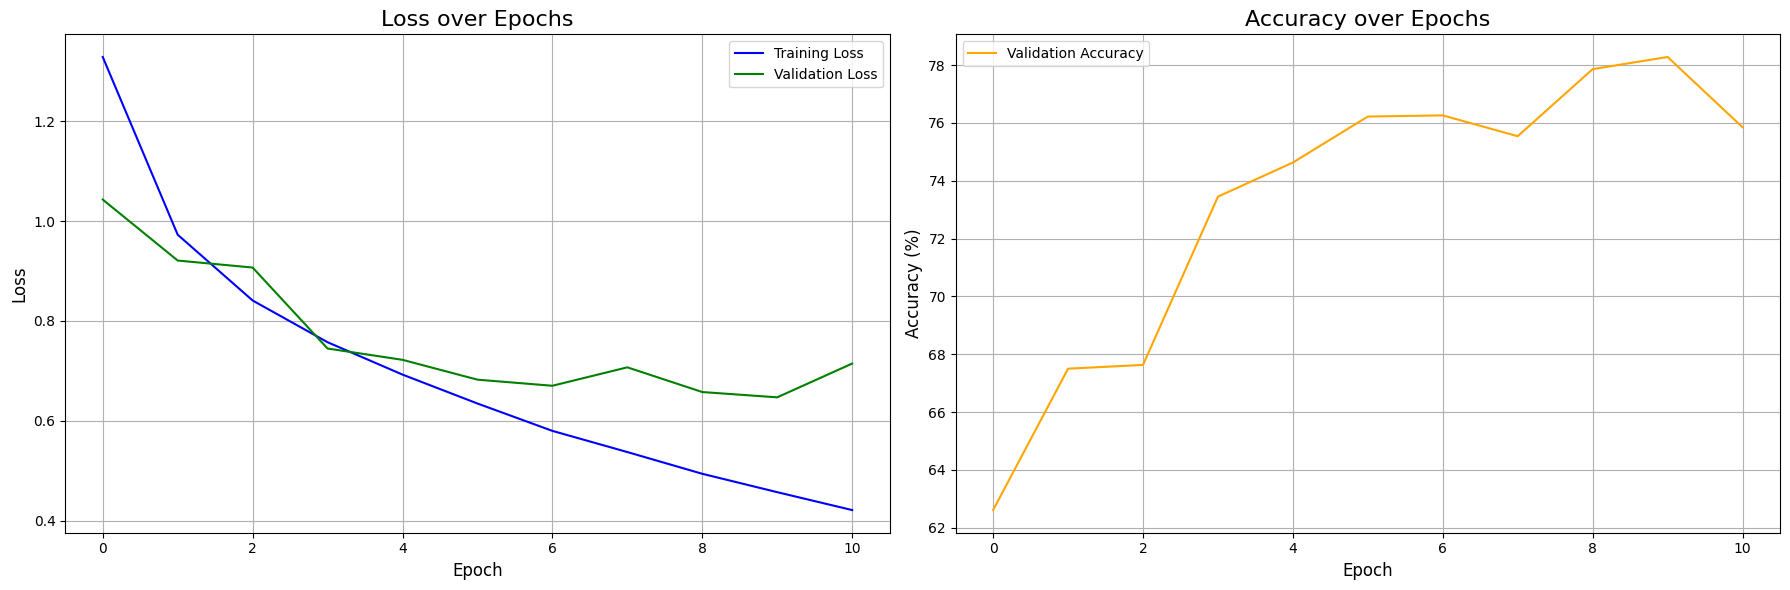
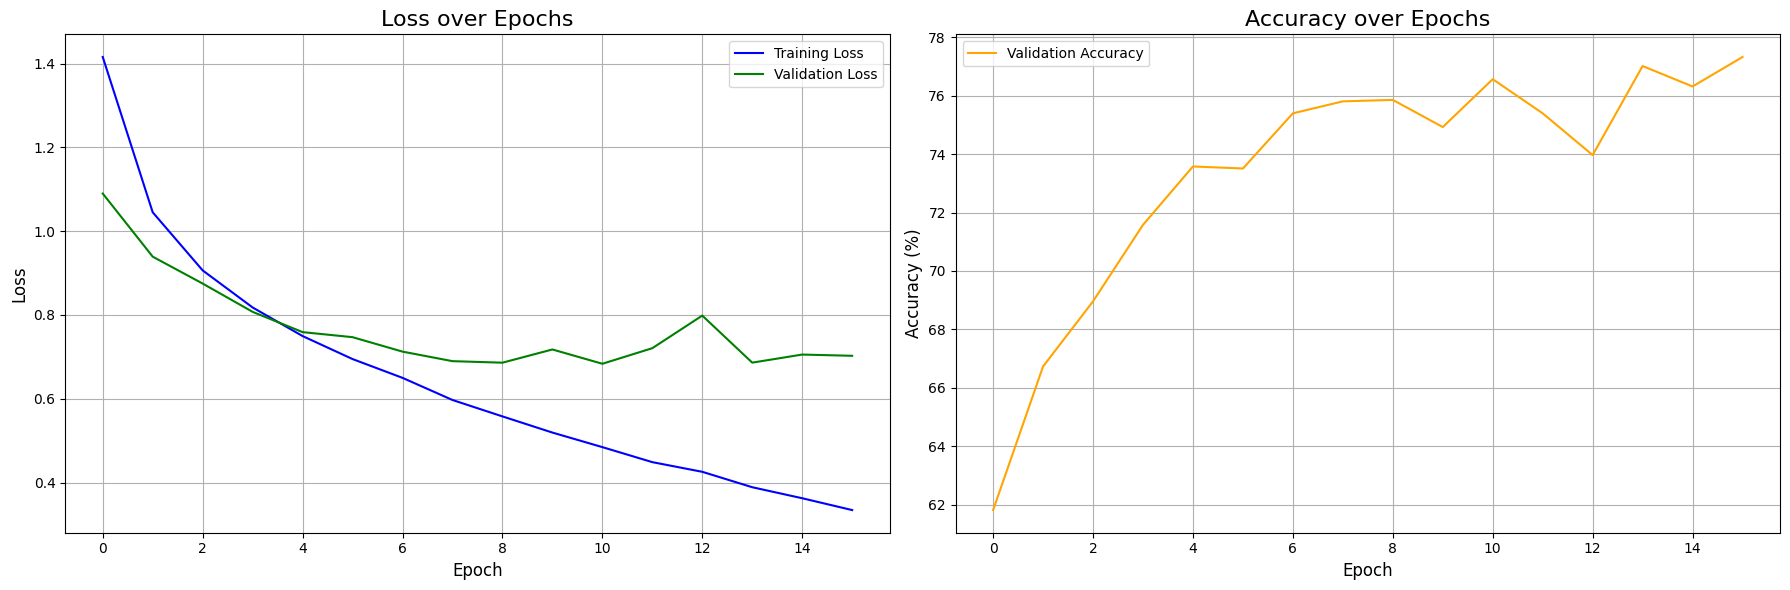
modify article

diff --git a/docs/Image-models-replication.md b/docs/Image-models-replication.md
@@ -10,7 +10,7 @@
 
 这个代码框架的大致介绍是：通过模型暴露的一个接口函数 `get_model_on_device()` 获取模型实例，然后使用 hyperopt 框架，在 CIFAR-10 数据集上分割 20% 数据用以对模型进行全局学习率和训练轮次的早停法调参；获取最优参数后，在全量数据上进行训练，最后收集训练信息得到结果和部分数据变化的可视化图像。
 
-由于每一次都要花大量时间寻找合适的学习率，笔者花了一天时间研究了一下 muP（[Paper link here](https://arxiv.org/abs/2203.03466)） 的原理以及怎样迁移学习率，结论：在已有数据上（MLP, CNN, ResNet-18）进行的实验和相关理论计算证明，模型架构（残差连接，BN等）会影响损失地形（[Paper link here](https://arxiv.org/pdf/1712.09913)），导致跨架构的学习率迁移失效。其实很明显，比如微调ResNet就比从零训练ResNet的best LR更低，因为预训练权重已经在一个 minima 附近了，损失地形比起随机点位更平坦。所以该花时间调参还得花时间调参。不过，可以考虑在小宽度模型上再 scale up，这样就符合 muP 的初心了。具体的实验过程，还请大家参阅后文。
+由于每一次都要花大量时间寻找合适的学习率，笔者花了一天时间研究了一下 muP（[Paper link here](https://arxiv.org/abs/2203.03466)） 的原理以及怎样迁移学习率，结论：在已有数据上（MLP, CNN, ResNet-18）进行的实验和相关理论计算证明，模型架构（残差连接，BN等）会影响损失地形（[Paper link here](https://arxiv.org/pdf/1712.09913)），导致跨架构的学习率迁移失效。其实很明显，比如微调ResNet就比从零训练ResNet的best LR更低，因为预训练权重已经在一个最小值附近了，损失地形比起随机点位更平坦。所以该花时间调参还得花时间调参。不过，可以考虑在小宽度模型上再 scale up，这样就符合 muP 的初心了。具体的实验过程，还请大家参阅后文。
 
 下面是每一个 Cell 的代码：
 
@@ -510,11 +510,15 @@ graph LR
     style H stroke:#a6e3a1,stroke-width:3px
 ```
 
-这是一个三层的多层感知机，参数量 1.7M。这点参数量反映下来就是即使是 P100 这种老 GPU 都根本没使劲，倒是 CPU 一直在满负荷发力，搬运数据。
+MLP 是利用 $\reals^n\rightarrow\reals^m$ 的多重线性映射实现数据的降维，但是单纯的线性映射嵌套仍是 $\reals^{d_{in}}\rightarrow\reals^{d_{out}}$ 的线性映射，因此需要在层与层之间添加非线性的激活函数引入非线性。这样一个足够宽的两层全连接网络即可拟合任意函数。
 
-对于图像分类任务而言，MLP 的做法是将其一来就展平成一维向量来丢进矩阵里面跑。我第一次接触的时候就觉得这很没道理，图像本身就有两个维度，这种“平面化”的信息，感觉就被一个 `nn.Flatten` 给丢弃了。虽然说理论上经过足够数据训练之后，一个 fc layer 足够有能力提取两个维度上的相关性（万能拟合定理），但是网络要足够宽，数据要足够多，正则化要足够充分，而如果不引入更多先验知识来捕捉图像信息的特征，训练效率和参数效率都是极其低下的。
+在这个任务里面，我们使用一个三层的 MLP，并采用 ReLU 作为层间的激活函数，由于我们对 one-hot 向量进行分类，因此使用交叉熵损失，如果用 MSE 的话，求导之后会发现它是交叉熵的导数乘以权重，这就不适合梯度稳定更新。
 
-事实上结果也是这样，经过 13 个 Epoch 的训练之后，模型在 CIFAR-10 只上取得了 54.44% 的准确率。增大模型的宽度和深度理论上可以改善，但是效率太低了。
+输入上是将 3@32x32 的图像展平成 3072 维的向量。当然我觉得这很没道理，图像本身就有两个维度三个通道，这种“平面化”的信息，感觉就被一个 `nn.Flatten` 给丢弃了。虽然说理论上经过足够数据训练之后，一个 fc layer 足够有能力提取各个维度上的相关性（万能拟合定理），但是网络要足够宽，数据要足够多，正则化要足够充分，而如果不引入更多先验知识来捕捉图像信息的特征，训练效率和参数效率都是极其低下的。
+
+这是一个三层的多层感知机，参数量 1.7M。第一次训练下来发现这点参数量反映下来就是即使是 P100 这种老 GPU 都根本没使劲，倒是 CPU 一直在满负荷发力，搬运数据。后来意识到，dataloader 里面可以写上 `num_workers=6` 以及 `pin_memory=True` 来提升访存效率，并且把 batch_size 调大（反正就 2 M不到的模型爆不了显存），训练效率高了很多啊。
+
+经过 13 个 Epoch 的训练之后，模型在 CIFAR-10 只上取得了 54.44% 的准确率。增大模型的宽度和深度理论上可以改善，但是效率太低了。因此需要发掘图像信息的特性，在模型结构上面引入更多先验信息，寻找能够更高效提取信息的架构。
 
 ## 卷积神经网络
 
@@ -607,8 +611,8 @@ def get_model_on_device():
 ==================================================
 
 [Hyper parameters]
-  - Best LR: 0.000565
-  - Best epochs: 11 epochs
+  - Best LR: 0.000199
+  - Best epochs: 16 epochs
   - Batch size: 128
 
 [Model structure]
@@ -639,12 +643,12 @@ CNN(
   - Total params: 1,147,914
 
 [Training infomation]
-  - Training duration on full training set: 2m 33s
+  - Training duration on full training set: 4m 7s
   - Training device: cuda on Kaggle's free P100, Thank you Google!
 
 [Benchmarks on test set]
-  - Test loss: 0.7148
-  - Test accuracy: 75.85%
+  - Test loss: 0.7026
+  - Test accuracy: 77.33%
 
 ==================================================
 ```
@@ -733,24 +737,55 @@ graph LR
     style S stroke:#a6e3a1,stroke-width:3px
 ```
 
-CNN 通过先验引入稀疏连接（也就是 `conv2d` ）不仅可以实现对更大规模网络的稀疏近似，满足图像的平移不变性，还具有很好的可解释性（卷积核对应一个小面积的感受野，解决之前提到 MLP 的展平操作的问题，并且不同的卷积核提取不同的特征）。因此相当适合图像处理。当然最后还是得依靠一个 MLP 作为分类头，不过这里的展平操作就合理多了，因为经过多次 `conv2d` 之后，模型提取到的都是空间上弱相关的深层次（抽象）特征了。下面来聊聊训练上的参数迁移问题。
+`conv2d` 就是卷积操作，本质上是从输入张量 `(batch_size, in_channel, H, W)` 到输出张量 `(batch_size, out_channel, H, W)` 的一个利用四维张量 `(in_channel, out_channel, H', W')` 的卷积核进行的卷积操作，具体是对于单张图像的各个通道进行填充后，将自定义的 `in_channel@H'xW'` 的矩阵在其上一一对应进行滑动覆盖，并对覆盖到的区域进行逐元素求积并求和，得到了单个新矩阵，如此共选取 `out_channel` 次自定义矩阵，就得到了输出张量 `(batch_size, out_channel, H, W)` 这是任意一本深度学习教材都会讲解的内容。
 
-这里我控制了 CNN 的参数量基本上和 MLP 在一个数量级（1M），并且 CNN 的参数量还略少一点。之前提到尝试过使用 muP 迁移学习率，但是 MLP 的 fan_in 是 512 （隐藏层输入维度）而 CNN 的 fan_in 是最大通道数 128。关于这一点，有下面的说明：
+CNN 通过先验引入稀疏连接（也就是 `conv2d` ）不仅可以实现对更大规模网络的稀疏近似，满足图像的平移不变性，还具有很好的可解释性（卷积核对应一个小面积的感受野，解决之前提到 MLP 的展平操作的问题，并且不同的卷积核提取不同的特征）。因此相当适合图像处理。当然最后还是得依靠一个 MLP 作为分类头，不过这里的展平操作就合理多了，因为经过多次 `conv2d` 之后，模型提取到的都是空间上弱相关的深层次（抽象）特征了。在这些特征之间进行组合就非常合理且直观了。
 
-1. 为什么不是真正隐藏层的输入维度 2048？因为考虑对 CNN 做宽度上的 scale up 时，是考虑增加的通道数。实质上，`conv2d` 是对全连接的稀疏化改造，从提取更多特征的角度考虑，MLP 只需要简单增加 fan_out，但是 CNN 不能靠增加 kernel_size 或者其他，只能靠增加通道数，因为更多通道才能依靠更多样的卷积核来容纳更多特征。
+这个网络虽然参数量不如先前的 MLP，但是宽度要宽一些（我理解的网络宽度即通道数，因为这决定了模型捕获的特征数量），根据 muP 的理论，学习率可以翻 4 倍（MLP隐藏层维度 512， CNN 最大通道数 128），结论大致符合预期。
 
-2. 取最大是因为使用的全局学习率，所以应该保证瓶颈处的更新量不爆炸，也就是取尽可能保守的学习率，根据 $\eta$ 和 $d^\alpha$（其中 $\alpha$ 是和优化器有关的指数，具体取决于优化器的参数更新量，对于 Adam 一般使用 signSGD 近似，具体可见本站的“神经网络优化器概论”这篇文章）的反比例关系，所以才取的最大的通道数。类似的，其实对 MLP 也是取到的最大的隐藏层输入维度 512。
+## 在 CIFAR-10 上从零训练 ResNet-18 / 对预训练 ResNet-18 在 CIFAR-10 上进行微调
 
-因此根据 Adam 的计算方法，$\alpha$ 应该取到 $1$，所以迁移的学习率是 $0.000056 \times \dfrac{512}{128} = 0.000212$。不过，事情真的是这样吗？
+### 训练结果展示
 
-实际上搜索到的最优学习率是这个的两倍多，我觉得有以下几个点成为理由：
+<details>
 
-1. BatchNorm 已经预先对卷积的结果做了正则化，也就是对结果的分布进行归一化，因而能够承受更大的学习率。
-2. CNN 的 `conv2d` 捕获到了图像本身的平移不变性，并且易于学习各种用于提取特征的卷积核，这就从先验角度构造了一个“更容易”学习的结构，从损失地形角度上说就是这种稀疏性带来了更平坦的损失地形，从而能够承受更大的学习率。
+<summary> 代码 </summary>
 
-后面在 ResNet 上做的两个训练就更能够看出这两点来。
+```python
+from torchvision.models import resnet18
+class ResNet18(nn.Module):
+    def __init__(self, pretrained=False, num_classes=10):
+        super(ResNet18, self).__init__()
+        # 加载预训练或随机初始化的ResNet-18
+        self.resnet = resnet18(pretrained=pretrained)
+        
+        # 调整第一个卷积层以适应32x32输入
+        # 原始ResNet-18的第一个卷积层是7x7, stride=2, padding=3
+        # 对于32x32图像，我们改为3x3, stride=1, padding=1
+        self.resnet.conv1 = nn.Conv2d(
+            3, 64, kernel_size=3, stride=1, padding=1, bias=False
+        )
+        
+        # 调整最大池化层，不需要下采样太多
+        self.resnet.maxpool = nn.Identity()  # 移除最大池化层
+        
+        # 调整最后一个全连接层以适应CIFAR-10的10个类别
+        in_features = self.resnet.fc.in_features
+        self.resnet.fc = nn.Linear(in_features, num_classes)
+        
+    def forward(self, x):
+        return self.resnet(x)
 
-## 在 CIFAR-10 上从零训练 ResNet-18
+def get_model_on_device():
+    model = ResNet18()# pretrained=True 使用预训练权重，反之不使用。
+    return model.to(device)
+```
+
+</details>
+
+<details>
+
+<summary> 从零训练结果 </summary>
 
 ```text
 
@@ -865,37 +900,11 @@ ResNet18(
 ==================================================
 ```
 
-## 对预训练 ResNet-18 在 CIFAR-10 上进行微调
+</details>
 
-```python
-from torchvision.models import resnet18
-class ResNet18(nn.Module):
-    def __init__(self, pretrained=False, num_classes=10):
-        super(ResNet18, self).__init__()
-        # 加载预训练或随机初始化的ResNet-18
-        self.resnet = resnet18(pretrained=pretrained)
-        
-        # 调整第一个卷积层以适应32x32输入
-        # 原始ResNet-18的第一个卷积层是7x7, stride=2, padding=3
-        # 对于32x32图像，我们改为3x3, stride=1, padding=1
-        self.resnet.conv1 = nn.Conv2d(
-            3, 64, kernel_size=3, stride=1, padding=1, bias=False
-        )
-        
-        # 调整最大池化层，不需要下采样太多
-        self.resnet.maxpool = nn.Identity()  # 移除最大池化层
-        
-        # 调整最后一个全连接层以适应CIFAR-10的10个类别
-        in_features = self.resnet.fc.in_features
-        self.resnet.fc = nn.Linear(in_features, num_classes)
-        
-    def forward(self, x):
-        return self.resnet(x)
+<details>
 
-def get_model_on_device():
-    model = ResNet18(pretrained=True)
-    return model.to(device)
-```
+<summary> 微调结果 </summary>
 
 ```text
 ==================================================
@@ -1008,6 +1017,173 @@ ResNet18(
 
 ==================================================
 ```
+
+</details>
+
+### 对 ResNet-18 模型的解读和评述
+
+ResNet-18 的结构如下所示：
+
+```meimaid
+%%{init: {'theme': 'dark', 'themeVariables': { 'darkMode': true, 'primaryColor': '#1e1e2e', 'edgeLabelBackground':'#313244', 'tertiaryColor': '#181825'}}}%%
+graph LR
+    %% Styling definitions
+    classDef box fill:#313244,stroke:#cdd6f4,stroke-width:2px,color:#cdd6f4,radius:8px;
+    classDef input fill:#585b70,stroke:#89b4fa,stroke-width:2px,color:#cdd6f4;
+    classDef output fill:#313244,stroke:#f38ba8,stroke-width:2px,color:#cdd6f4;
+    classDef result fill:#45475a,stroke:#a6e3a1,stroke-width:2px,color:#cdd6f4;
+    classDef conv fill:#313244,stroke:#74c7ec,stroke-width:2px,color:#cdd6f4;
+
+    %% Input Layer
+    subgraph Input["输入"]
+        A[("3 @ 32×32")]
+    end
+    class Input input;
+
+    %% Initial Convolution
+    subgraph InitConv["Initial Convolution"]
+        B["Conv2d <br> 3x64 x 3×3"] 
+        C["BatchNorm2d <br> 64 channels"]
+        D["ReLU"]
+    end
+    A --> B
+    B --> C --> D
+    class InitConv conv;
+
+    %% Layer 1 (2× BasicBlock without downsample)
+    subgraph Layer1["Layer1 (2×BasicBlock)"]
+        F["BasicBlock 1"]
+        G["BasicBlock 1"]
+    end
+    D --> |64 @ 32×32| F
+    F --> |64 @ 32×32| G
+    class Layer1 box;
+
+    %% Layer 2 (2× BasicBlock with downsample in first block)
+    subgraph Layer2["Layer2 (2×BasicBlock)"]
+        H["BasicBlock 2"]
+        I["BasicBlock 1"]
+    end
+    G --> |64 @ 32×32| H
+    H --> |128 @ 16×16| I
+    class Layer2 box;
+
+    %% Layer 3 (2× BasicBlock with downsample in first block)
+    subgraph Layer3["Layer3 (2×BasicBlock)"]
+        J["BasicBlock 2"]
+        K["BasicBlock 1"]
+    end
+    I --> |128 @ 16×16| J
+    J --> |256 @ 8×8| K
+    class Layer3 box;
+
+    %% Layer 4 (2× BasicBlock with downsample in first block)
+    subgraph Layer4["Layer4 (2×BasicBlock)"]
+        L["BasicBlock 2"]
+        M["BasicBlock 1"]
+    end
+    K --> |256 @ 8×8| L
+    L --> |512 @ 4×4| M
+    class Layer4 box;
+
+    %% Global Pooling and FC
+    subgraph PoolFC["GAP & Classfiaction"]
+        N["AdaptiveAvgPool2d <br> 1×1"]
+        O["Flatten <br> 512-dim vec"]
+        P["Linear <br> 512x10"]
+    end
+    M --> |512 @ 4×4| N --> |512 @ 1×1| O --> |512| P
+    class PoolFC box;
+
+    %% Output Layer
+    subgraph Output["output"]
+        Q[("10")]
+    end
+    P --> Q
+    class Output output;
+
+    %% Styling
+    style A stroke-dasharray: 5 5
+    style Q stroke:#a6e3a1,stroke-width:3px
+```
+
+其中，Basic block 1 是不带降采样的残差连接：
+
+```mermaid
+%%{init: {'theme': 'dark', 'themeVariables': { 'darkMode': true, 'primaryColor': '#1e1e2e', 'edgeLabelBackground':'#313244', 'tertiaryColor': '#181825'}}}%%
+graph LR
+    %% Styling definitions
+    classDef box fill:#313244,stroke:#cdd6f4,stroke-width:2px,color:#cdd6f4,radius:8px;
+    classDef residual fill:#313244,stroke:#f5c2e7,stroke-width:2px,color:#cdd6f4;
+    classDef downsample fill:#313244,stroke:#74c7ec,stroke-width:2px,color:#cdd6f4;
+
+    %% BasicBlock Structure (With Downsample)
+    subgraph BasicBlockWithDS["BasicBlock 1"]
+        A["Conv2d <br> 64x128 x 3×3 /2"] 
+        B["BatchNorm2d <br> 128 channels"]
+        C["ReLU"]
+        D["Conv2d: 128x128 x 3×3"] 
+        E["BatchNorm2d <br> 128 channels"]
+        F(("\+"))
+        G["ReLU"]
+        
+        subgraph Downsample["Downsampling"]
+            H["Conv2d: 64x128 x 1×1 /2"]
+            I["BatchNorm2d <br> 128 channels"]
+        end
+    end
+    
+    %% Input
+    Input[("64 @ H×W")] --> A
+    Input --> H
+    
+    %% Connections
+    A --> B --> C --> D --> E --> F
+    H --> I --> F
+    F --> G
+    
+    %% Output
+    G --> Output[("128 @ H/2×W/2")]
+    
+    class BasicBlockWithDS residual;
+    class Downsample downsample;
+```
+
+Basic block 2 是带降采样的残差连接：
+
+```mermaid
+% Basic block ~w/dwsp
+%%{init: {'theme': 'dark', 'themeVariables': { 'darkMode': true, 'primaryColor': '#1e1e2e', 'edgeLabelBackground':'#313244', 'tertiaryColor': '#181825'}}}%%
+graph LR
+    %% Styling definitions
+    classDef box fill:#313244,stroke:#cdd6f4,stroke-width:2px,color:#cdd6f4,radius:8px;
+    classDef residual fill:#313244,stroke:#f5c2e7,stroke-width:2px,color:#cdd6f4;
+
+    %% BasicBlock Structure (No Downsample)
+    subgraph BasicBlockNoDS["BasicBlock 2"]
+        A["Conv2d <br> 64x64 x 3×3"] 
+        B["BatchNorm2d <br> 64 channels"]
+        C["ReLU"]
+        D["Conv2d <br> 64x64 x 3×3"] 
+        E["BatchNorm2d <br> 64 channels"]
+        F(("\+"))
+        G["ReLU"]
+    end
+    
+    %% Input
+    Input[("64 @ H×W")] --> A
+    Input --> F
+    
+    %% Connections
+    A --> B --> C --> D --> E --> F
+    F --> G
+    
+    %% Output
+    G --> Output[("64 @ H×W")]
+    
+    class BasicBlockNoDS residual;
+```
+
 
 ## ViT
 
